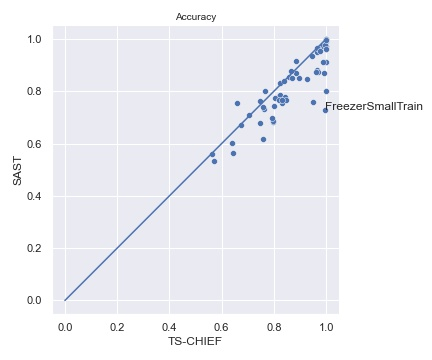
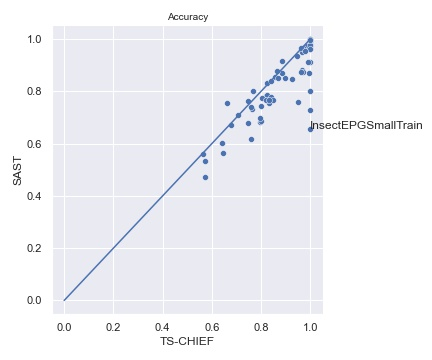
result on 75 datasets

diff --git a/README.md b/README.md
@@ -20,6 +20,7 @@ STC-k is a shapelet transform classifier which generate shapelet candidates from
 
 - [All models results](./results/all-model-acc.csv)
 - [SAST results](./results/results-rf-ridge.csv)
+- [STC-k results](./results/results-stck.csv)
 - [Approximated SAST results: SAST-A](./results/results-sast-approx.csv)
 - [Ensemble of approximated SAST results: SASTEN-A](./results/results-sast-ensemble-approx.csv)
 - [Ensemble of SAST results: SASTEN](./results/results-sast-ensemble-full.csv)
@@ -52,6 +53,17 @@ STC-k is a shapelet transform classifier which generate shapelet candidates from
 
 ![SCT vs STC-k CDD](images/cdd-stck.png)
 
+### SAST vs STC
+
+#### Pairwise accuracy comparison
+
+| ![SAST vs STC-1](images/scatter-sast-stc1.png) | ![SAST vs STC](images/scatter-sast-stc.png) |
+| ---------------------------------------------- | ------------------------------------------- |
+
+#### Critical difference diagram
+
+![CDD sast vs stc](images/cdd-sast-stck.png)
+
 #### Percentage of wins per problem type
 
 ![win-per-dataset-type-stck](images/win-per-dataset-type-stck.png)
@@ -83,6 +95,8 @@ STC-k is a shapelet transform classifier which generate shapelet candidates from
 
 ![scatter-sast-ridge-vs-chief](images/scatter-sast-ridge-vs-chief.jpg)
 
+![Cdd vs sota](images/cd-sota.jpg)
+
 #### Percentage of wins per problem type
 
 ![win-per-dataset-type-sota](/Users/michael/Desktop/Code/sast-github/images/win-per-dataset-type-sota.png)
@@ -99,9 +113,7 @@ STC-k is a shapelet transform classifier which generate shapelet candidates from
 
 ![](images/line-scalability-nb-series.jpg)
 
-### Comparison to SOTA
 
-![](images/cd-all-models.jpg)
 
 ## Usage
 
